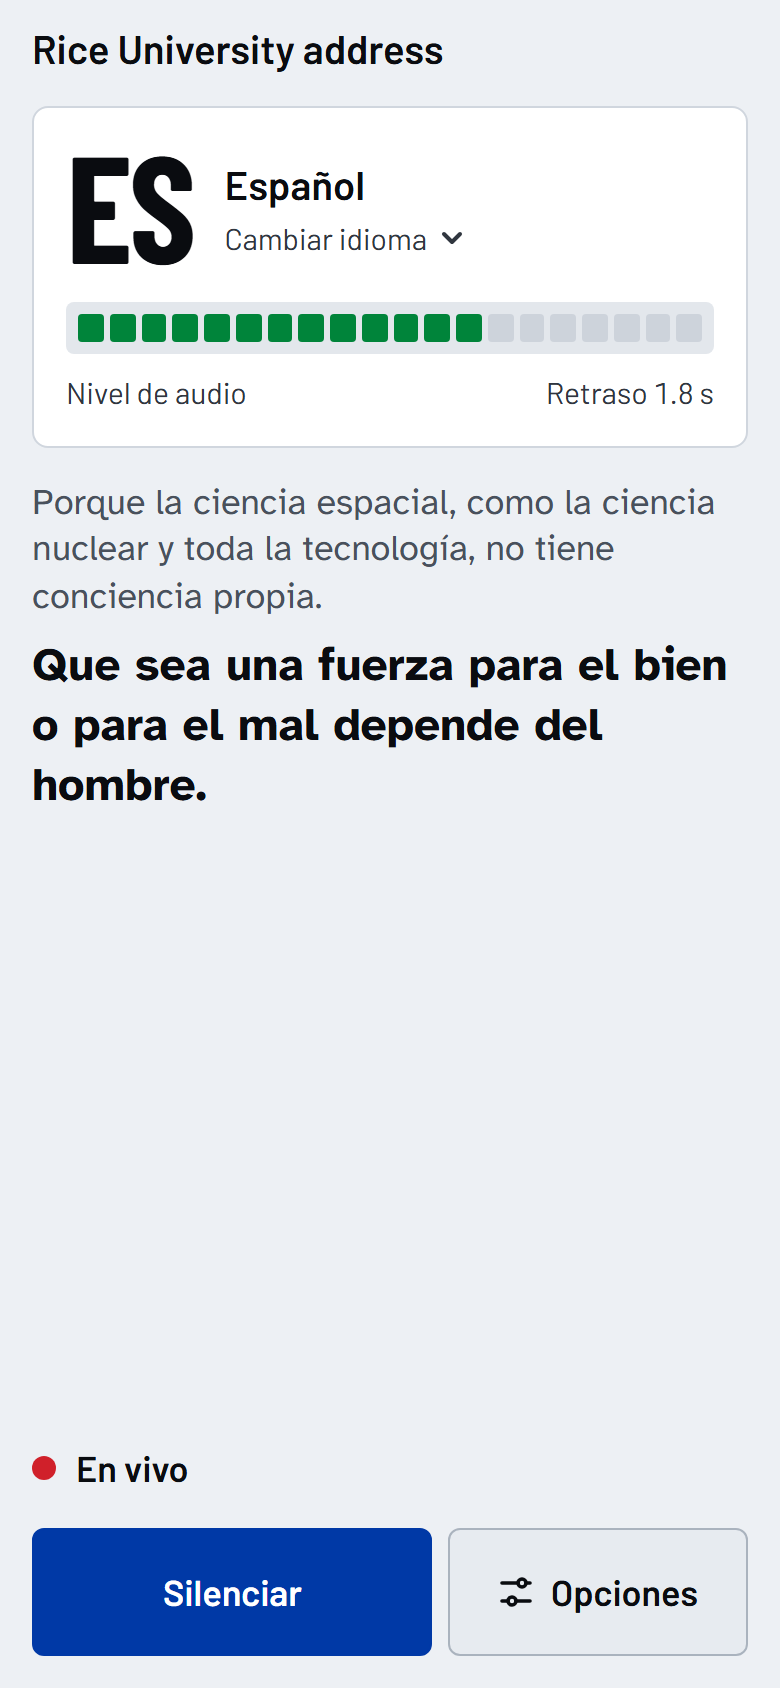
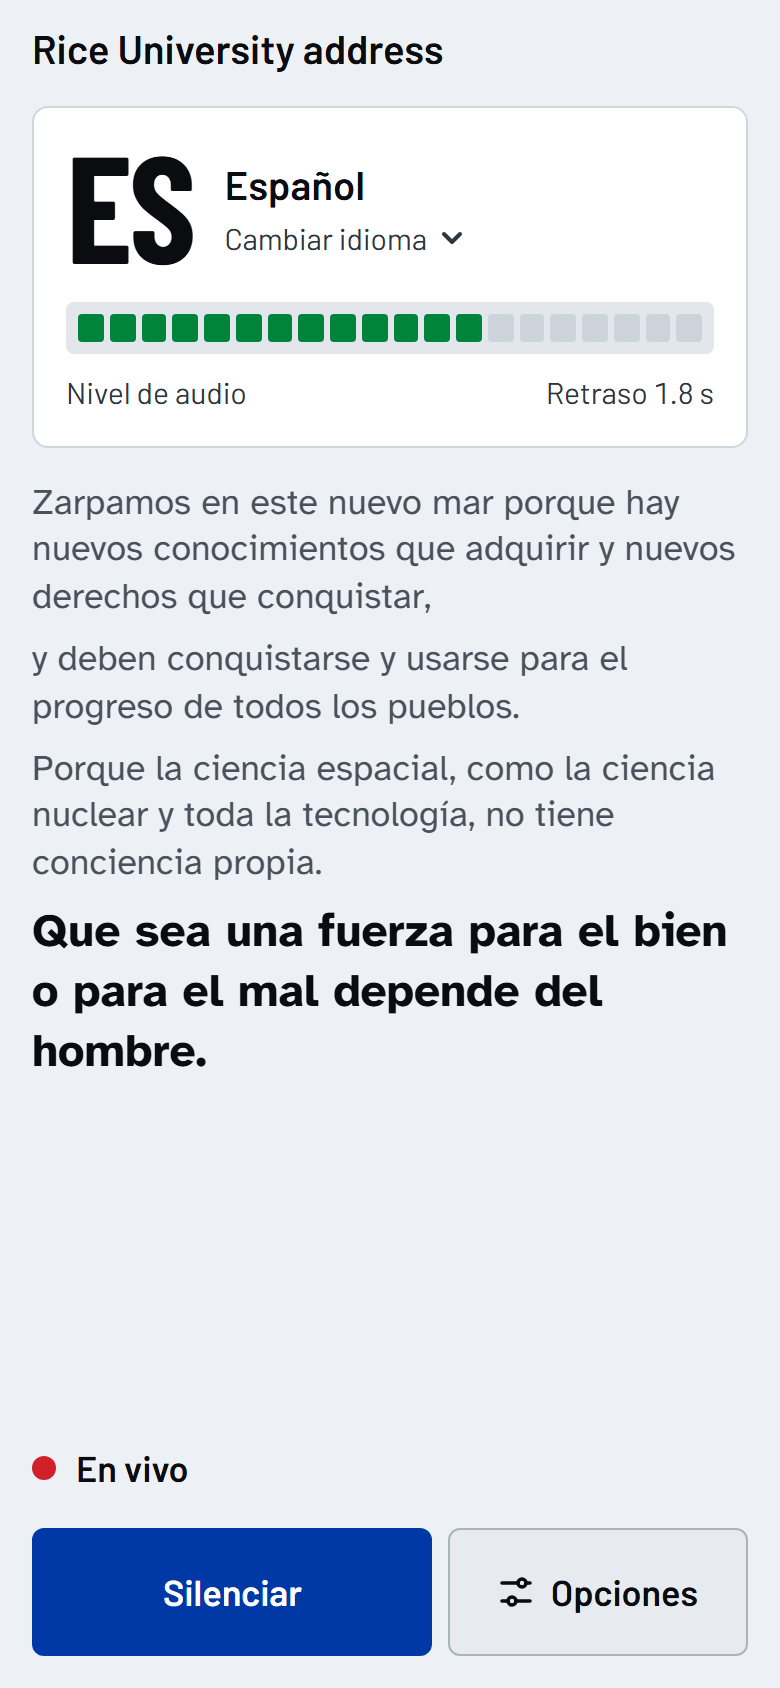
Docs: Audio section, QR page, caption history; screenshots
README and OPERATIONS describe the always-visible Audio section, the QR
page and Open QR page, the caption and transcript scroll-back and the
disabled controls in the operator replay. The Desk, Rows (Night) and
Receiver screenshots are recaptured and the QR page is added.

Changed region(s): [[0.0308, 0.2773, 0.9538, 0.6469]]

diff --git a/README.md b/README.md
@@ -6,13 +6,14 @@ Real-time speech translation for live talks: one speaker, one realtime translati
 
 The app has three surfaces.
 
-- **Operator** (`/operator`): a dashboard on the laptop that receives the speaker's audio. Setup takes the event ID and title, the language, the input (with a level test) and the channel type: speech translation, or the speaker's original audio for listeners of the source language. Once the room is open, the dashboard shows an input meter, an output meter and the on-air state of each language of the event, one alert at a time with its fix, the transcript, the event QR code with a projector view, and session details (connections, response time, cost, event log). Two views: **Desk** (vertical channel strips, transcript lanes below) and **Rows** (horizontal channel rows, alert slot, transcript at reading size), chosen with the theme under **Settings** in the session bar. Keyboard: Space starts or pauses, M places a mark.
-- **Listeners** (`/listen/[room]`): a mobile web page opened from the QR code. It joins the room as a subscribe-only participant and plays the translated audio with captions. The screen keeps the event title, the current language (the button that changes it), the captions, one status line and Mute; view, theme, text size and interface language sit under **Options**. Two views: **Captions** (default, a caption stage) and **Receiver** (channel card with the language code and level meter, last caption lines). The page states whether the broadcast is live, paused, reconnecting or silent, rejoins on its own after a network drop, keeps the screen on while listening and shows the stream on the lock screen. The interface follows the room language (Spanish or English) and can be switched under Options.
+- **Operator** (`/operator`): a dashboard on the laptop that receives the speaker's audio. Setup takes the event ID and title, the language, the input (with a level test) and the channel type: speech translation, or the speaker's original audio for listeners of the source language. Once the room is open, the dashboard shows an input meter, an output meter and the on-air state of each language of the event, one alert at a time with its fix, an **Audio** section that stays on screen (input device, monitor output device, input level, monitor choice and a device refresh), the transcript with its whole history, the event QR code with a projector view and a full-screen QR page, and session details (connections, response time, cost, event log). Two views: **Desk** (vertical channel strips, transcript lanes below) and **Rows** (horizontal channel rows, alert slot, transcript at reading size), chosen with the theme under **Settings** in the session bar. Keyboard: Space starts or pauses, M places a mark.
+- **Listeners** (`/listen/[room]`): a mobile web page opened from the QR code. It joins the room as a subscribe-only participant and plays the translated audio with captions. The screen keeps the event title, the current language (the button that changes it), the captions, one status line and Mute; view, theme, text size and interface language sit under **Options**. Two views: **Captions** (default, a caption stage) and **Receiver** (channel card with the language code and level meter, caption lines below). Both keep every caption of the session: the newest line stays in view, scrolling up reads back, and **Back to latest** returns. The page states whether the broadcast is live, paused, reconnecting or silent, rejoins on its own after a network drop, keeps the screen on while listening and shows the stream on the lock screen. The interface follows the room language (Spanish or English) and can be switched under Options.
 - **Event page** (`/e/[event]`): one link and QR code for the whole event. It lists the languages of the event that currently have a room open, with their state, and listeners can come back to it to switch language without scanning another code.
+- **QR page** (`/e/[event]/qr`): the event QR code full screen for a projector, with the short URL, the event title and the live languages, refreshed every 15 seconds. The operator opens it in a new tab with **Open QR page**; `?lang=es` points the code at one language.
 
 Every surface has a light theme (default) and a **Night** theme for dark rooms. Theme and view are remembered per device.
 
-**Replay** (`/replay` and `/replay/operator`): a recorded 1962 speech with translated captions and AI-generated voices in Spanish and Portuguese, played through the same listener and operator views. It needs no keys and calls no server route, so it also works from a static export; for a sub-path, set `NEXT_PUBLIC_BASE_PATH` (for example `/demos/translation`) at build time. Credits and licence are in `public/replay/ATTRIBUTION.txt`.
+**Replay** (`/replay` and `/replay/operator`): a recorded 1962 speech with translated captions and AI-generated voices in Spanish and Portuguese, played through the same listener and operator views. The operator replay shows the Audio section and the room controls disabled, since a recording has no devices or room. It needs no keys and calls no server route, so it also works from a static export; for a sub-path, set `NEXT_PUBLIC_BASE_PATH` (for example `/demos/translation`) at build time. Credits and licence are in `public/replay/ATTRIBUTION.txt`.
 
 Translation runs on OpenAI's `gpt-realtime-translate` model. The translated audio is fanned out through a self-hosted [LiveKit](https://livekit.io) server, so the translation cost does not grow with the number of listeners.
 
@@ -21,14 +22,14 @@ Translation runs on OpenAI's `gpt-realtime-translate` model. The translated audi
 <table>
   <tr>
     <td colspan="3">
-      <img src="docs/screenshots/operator-desk.png" alt="Operator dashboard, Desk view: input strip, four language strips, listener QR code, transcript lanes">
-      <p align="center"><sub>Operator, Desk view: the input and each language as a channel strip, the event QR code, the source and translated transcript.</sub></p>
+      <img src="docs/screenshots/operator-desk.png" alt="Operator dashboard, Desk view: input strip, four language strips, listener QR code, Audio section with input and output devices, transcript lanes">
+      <p align="center"><sub>Operator, Desk view: the input and each language as a channel strip, the event QR code, the Audio section, the source and translated transcript.</sub></p>
     </td>
   </tr>
   <tr>
     <td colspan="3">
       <img src="docs/screenshots/operator-rows-night.png" alt="Operator dashboard, Rows view, Night theme">
-      <p align="center"><sub>Operator, Rows view, Night theme: one row per channel, the alert slot and the transcript at reading size.</sub></p>
+      <p align="center"><sub>Operator, Rows view, Night theme: one row per channel, the alert slot, the Audio section and the transcript at reading size.</sub></p>
     </td>
   </tr>
   <tr>
@@ -37,7 +38,7 @@ Translation runs on OpenAI's `gpt-realtime-translate` model. The translated audi
       <p align="center"><sub>Listener, Captions view.</sub></p>
     </td>
     <td width="33%">
-      <img src="docs/screenshots/listener-receiver.png" alt="Listener, Receiver view: language code, level meter and the last caption lines">
+      <img src="docs/screenshots/listener-receiver.png" alt="Listener, Receiver view: language code, level meter and the caption lines">
       <p align="center"><sub>Listener, Receiver view.</sub></p>
     </td>
     <td width="33%">
@@ -55,6 +56,12 @@ Translation runs on OpenAI's `gpt-realtime-translate` model. The translated audi
       <p align="center"><sub>Replay, Night theme: the 1962 recording with translated captions and voice.</sub></p>
     </td>
     <td width="33%"></td>
+  </tr>
+  <tr>
+    <td colspan="3">
+      <img src="docs/screenshots/qr-page.png" alt="QR page: a large QR code, the short URL, the event title and the live languages">
+      <p align="center"><sub>QR page for a projector: the event code, its short URL and the live languages.</sub></p>
+    </td>
   </tr>
 </table>
 
@@ -81,7 +88,7 @@ Long-lived keys (`OPENAI_API_KEY`, `LIVEKIT_API_SECRET`, `GOOGLE_AI_API_KEY`) ar
 
 A session has four steps on the operator dashboard:
 
-1. **Open room**: the QR code goes live and listeners can join and wait. Nothing is billed.
+1. **Open room**: the QR code goes live and listeners can join and wait. Nothing is billed. **Open QR page** shows the code full screen in a new tab for the projector.
 2. **Start translation** (or **Start original audio**): the OpenAI session opens and billing starts. Original audio sends the speaker's audio as is and bills nothing.
 3. **Pause**: the translation session closes but listeners stay connected and see "Paused between speakers". Use it between speakers and during breaks.
 4. **End session**: after a confirmation, everything is torn down, listeners see "Session ended" and the session report is written.
@@ -179,7 +186,7 @@ The translation session bills for as long as it is open, whether or not anyone i
 - No PWA manifest; the listener page is a plain mobile web page.
 - The Gemini Live engine (`lib/gemini-live.ts`, `/api/gemini-token`) is kept in the code but hidden in the UI.
 - The response time shown is first-token latency, not end-to-end audio latency.
-- Tests: `npm test` (unit), `npm run test:e2e` (both views and themes on every surface, contrast, 320 px layout, target sizes, replay) and `npm run check:contrast` (colour tokens). With a LiveKit dev server, `E2E_LIVEKIT=1` adds the room flow; the setup is at the top of `tests/e2e/livekit.spec.ts`. The translation engine itself is tested by hand, since it needs an OpenAI key.
+- Tests: `npm test` (unit), `npm run test:e2e` (both views and themes on every surface, contrast, 320 px layout, target sizes, the Audio section, the QR page, caption scroll-back, replay) and `npm run check:contrast` (colour tokens). With a LiveKit dev server, `E2E_LIVEKIT=1` adds the room flow; the setup is at the top of `tests/e2e/livekit.spec.ts`. The translation engine itself is tested by hand, since it needs an OpenAI key.
 
 ## Privacy
 

diff --git a/docs/OPERATIONS.md b/docs/OPERATIONS.md
@@ -32,12 +32,12 @@ Restart the Next.js dev server after changing any of them; `NEXT_PUBLIC_` values
 
 ## Running a session
 
-1. **Open room**: connects to LiveKit and shows the event QR code (one code for every language) with a projector view. No translation runs and nothing is billed. Listeners who join see "Broadcast not started; audio starts automatically".
+1. **Open room**: connects to LiveKit and shows the event QR code (one code for every language) with a projector view. **Open QR page** opens `/e/[event]/qr` in a new tab: the code full screen with its short URL, the event title and the live languages, for a projector or a second screen. It refreshes on its own and has no controls besides a link back to the event page. No translation runs and nothing is billed. Listeners who join see "Broadcast not started; audio starts automatically".
 2. **Start translation** (Space): opens the OpenAI session and publishes the translated audio to the room. Billing starts. **Start original audio** publishes the speaker's audio as is, for listeners of the source language, and bills nothing.
 3. **Pause** (Space): closes the translation session but keeps the room open, so listeners stay connected and see "Paused between speakers". Use it between speakers, during breaks and during Q&A.
 4. **End session**: asks for confirmation, tells listeners the session ended, tears everything down and writes the session report to `benchmarks/`.
 
-Event ID, title, language and channel type are set in Setup and lock once the room is open, because the room name is derived from the event ID and language. **Change input** applies at the next start. The monitor output, monitor choice and the tab-audio copy are under "Session details and audio routing" and can change at any time.
+Event ID, title, language and channel type are set in Setup and lock once the room is open, because the room name is derived from the event ID and language. The **Audio** section stays on the live screen in both views: input device, monitor output device, input level, monitor choice (translation, input or mute) and **Refresh devices**. A new input applies at the next start; the monitor output and the monitor choice apply at once. The tab-audio copy is under "Session details and tab audio". The session bar stays at the top on wide screens, so **Open room** and **End session** are always in reach.
 
 Each language runs in its own operator tab with the same event ID; "Add language" opens one with the event prefilled. Every tab shows the other languages as strips or rows with their state, listener count and response time, read from the room server every 5 seconds. Their meters and transcripts are only available in their own tab.
 
@@ -45,7 +45,9 @@ Without `NEXT_PUBLIC_LIVEKIT_URL`, the flow collapses to Start and Stop on a sin
 
 ## Views and themes
 
-**Desk** shows the input and each language as vertical channel strips with a tally light, ladder meter, response time, listener count and on-air time, with transcript lanes below. **Rows** shows the same channels as horizontal rows, one alert slot with its fix, and the monitored transcript at reading size. Light is the default theme; **Night** suits dark rooms. View and theme are under **Settings** at the end of the session bar, and both choices are remembered on the device. Listeners choose their own view, theme and text size under **Options** on their phone.
+**Desk** shows the input and each language as vertical channel strips with a tally light, ladder meter, response time, listener count and on-air time, with the Audio section and transcript lanes below. **Rows** shows the same channels as horizontal rows, one alert slot with its fix, and the monitored transcript at reading size. Light is the default theme; **Night** suits dark rooms. View and theme are under **Settings** at the end of the session bar, and both choices are remembered on the device. Listeners choose their own view, theme and text size under **Options** on their phone.
+
+The transcript lanes, and the captions on listener phones, keep the whole session. They follow the newest line; scrolling up reads back and stops following, and **Back to latest** (**Volver a lo más reciente** in Spanish) or a scroll to the bottom resumes.
 
 ## Alerts
 
@@ -54,7 +56,7 @@ One alert shows at a time, the most severe first: a fault (with its cause, the f
 ## Audio devices
 
 - Device names appear only after the browser has microphone permission. **Test input** in Setup triggers the prompt and shows the input level before the room opens.
-- The monitor output can change mid-session (`setSinkId`). Safari does not support `setSinkId`, so the selector is disabled there.
+- The monitor output can change mid-session (`setSinkId`). Safari does not support `setSinkId`, so the selector is disabled there and marked "not supported in this browser".
 - **Raw audio** disables the browser's echo cancellation, noise suppression and automatic gain control. Turn it on for clean line-level inputs, such as a feed from a mixing desk or a virtual audio cable, where that processing causes pumping or clipping.
 - **Copy the translation to tab audio** keeps a second copy of the translation playing on the system default device, so a screen share in Zoom, Meet or OBS still carries the translation while the operator monitors on separate headphones.
 
@@ -72,7 +74,7 @@ The listener page states the broadcast: live, no audio at the moment (8 s of sil
 |---|---|---|
 | `OPENAI_API_KEY is not configured on the server` | Key missing from `.env.local` | Add it and restart the dev server |
 | `LIVEKIT_API_KEY / LIVEKIT_API_SECRET not configured` | LiveKit values missing | Fill them in, or use single-laptop mode |
-| Operator shows "On air" but there is no audio | Monitor set to Mute, tab muted or wrong output device | Check the Monitor button on the channel, tab volume and OS output |
+| Operator shows "On air" but there is no audio | Monitor set to Mute, tab muted or wrong output device | Check Monitor and the monitor output in the Audio section, tab volume and OS output |
 | Phone loads the listener page but buttons do nothing | Dev-origin protection returns 403 for the JavaScript | Add the LAN IP to `ALLOWED_DEV_ORIGINS` and restart |
 | Phone cannot reach the listener URL | Different Wi-Fi, or the QR code points at `localhost` | Set `NEXT_PUBLIC_LISTENER_BASE_URL` to the LAN IP |
 | Phone shows "Live" but stays silent | iOS blocks autoplay until a tap | The page asks for one tap on Listen; check headphones and volume |
